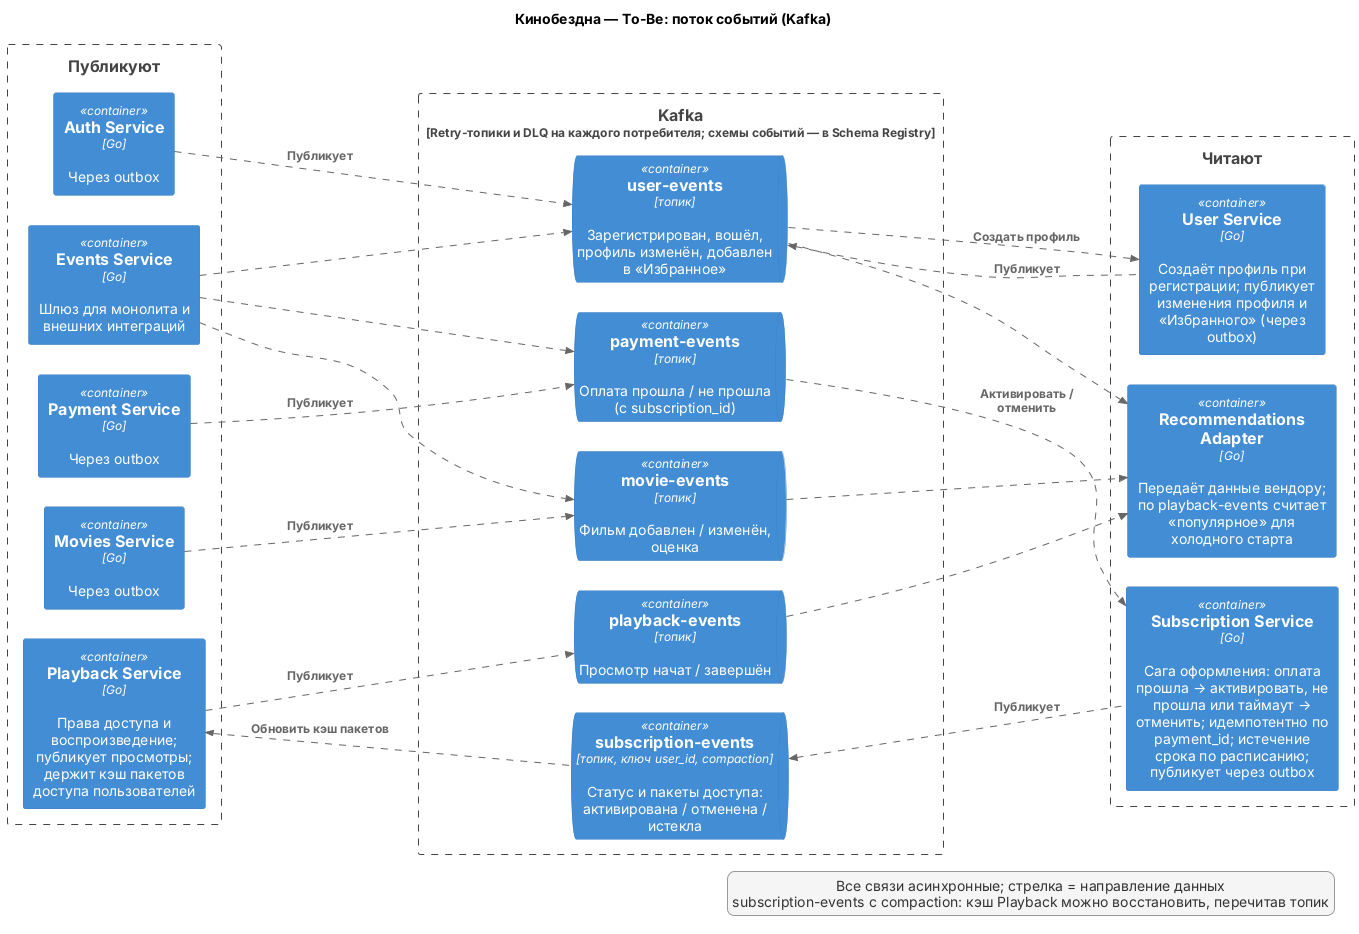
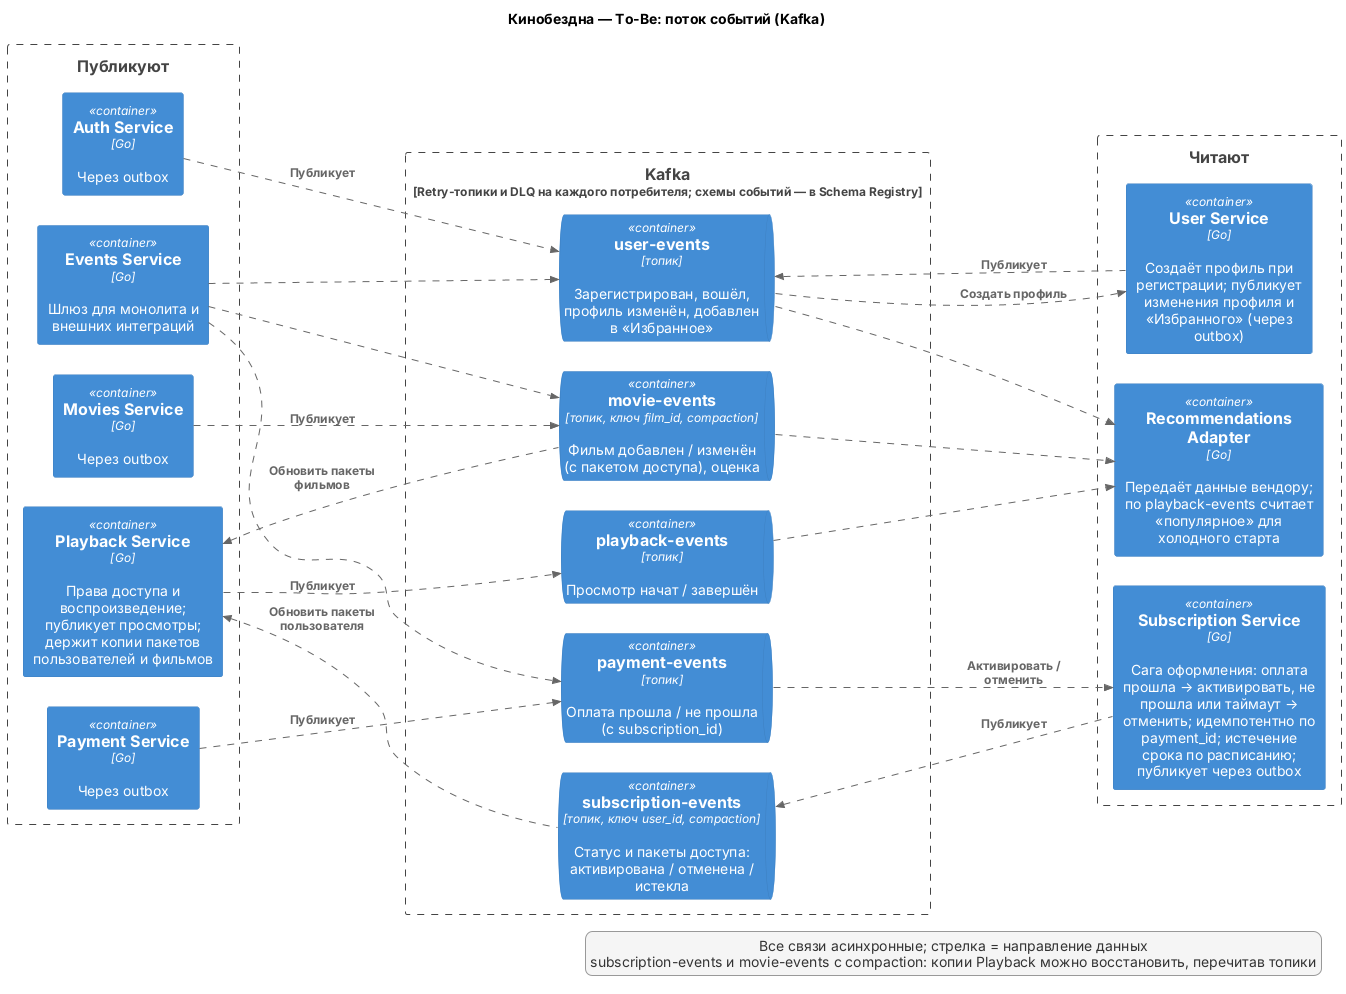
task1: Playback держит копию пакетов фильмов из movie-events

diff --git a/Project_template.md b/Project_template.md
@@ -29,7 +29,7 @@
 | Movies Service | Каталог: метаданные, жанры, оценки, пакет доступа фильма; импорт каталога партнёров, загрузка контента открытых источников | PostgreSQL + S3 (медиа) |
 | Subscription Service | Тарифы и входящие в них пакеты, подписки, скидки, промокоды; сага оформления | PostgreSQL |
 | Payment Service | Платежи и возвраты, интеграция с платёжной системой, приём вебхуков, сверка статусов | PostgreSQL |
-| Playback Service | Права доступа к контенту (доступность фильмов для каталога и проверка перед просмотром), выдача ссылки на поток | PostgreSQL (кэш пакетов доступа) |
+| Playback Service | Права доступа к контенту (доступность фильмов для каталога и проверка перед просмотром), выдача ссылки на поток | PostgreSQL (копии пакетов пользователей и фильмов) |
 | Recommendations Adapter | Anti-corruption layer к внешней рекомендательной системе, хранение подборок | PostgreSQL |
 | Events Service | REST-шлюз событий для монолита (на время миграции) и внешних интеграций; MVP задания 2 | — |
 
@@ -52,7 +52,7 @@
 2. **Подписки отдельно от платежей.** Подписка — права доступа (частое чтение), может возникать без оплаты (промокод, пробный период); платёж — деньги. Связь через `payment-events`.
 3. **Сага оформления подписки (хореография):** Subscription создаёт подписку «ожидает оплаты» и вызывает Payment → пользователь платит на странице провайдера → вебхук → `PaymentSucceeded` → подписка активирована. Отказ или таймаут → подписка отменена. Payment сверяет незавершённые платежи с провайдером. Автопродления нет: подписка на срок, по истечении Subscription публикует «истекла».
 4. **Права на контент.** Соответствие «тариф → пакеты» хранит Subscription и публикует пакеты пользователя в `subscription-events`; Movies хранит пакет каждого фильма; Playback проверяет, что пакет фильма входит в пакеты пользователя. Playback — **единственное место** этого правила: и пометки «входит в подписку» в каталоге (BFF запрашивает у Playback доступность списка фильмов), и решение при нажатии «Смотреть». Так экран и просмотр не могут разойтись, а показ каталога не нагружает Subscription.
-5. **Playback не зависит от Subscription на горячем пути:** держит локальный кэш пакетов пользователей из `subscription-events` (топик с compaction, кэш можно восстановить). Если записи нет или подписка неактивна — синхронная перепроверка в Subscription (чтобы только что оплативший пользователь не получил отказ).
+5. **Playback не зависит от Subscription и Movies на горячем пути:** держит локальные копии «пользователь → пакеты» из `subscription-events` и «фильм → пакет» из `movie-events` (топики с ключом и compaction — копии можно восстановить перечитыванием). Изменения подписки или пакета фильма доходят за секунды, без TTL. Если записи нет (только что оплатил, фильм только что добавлен) или подписка неактивна — синхронный запрос к владельцу данных (Subscription / Movies).
 6. **Видео не идёт через наш кластер:** Playback выдаёт подписанную временную ссылку, клиент смотрит напрямую с CDN партнёра или из нашего S3.
 7. **Рекомендации асинхронно** (условие кейса). Подборки хранятся у нас, сбой вендора не влияет на пользователя; для новых пользователей — «популярное» по `playback-events`.
 8. **Отказались от центрального сервиса событий** (всё через Events Service): единая точка отказа, невозможен outbox, потребителям всё равно нужны consumer groups и replay. Единообразие обеспечивают общая Go-библиотека, Schema Registry и соглашения по событиям.
